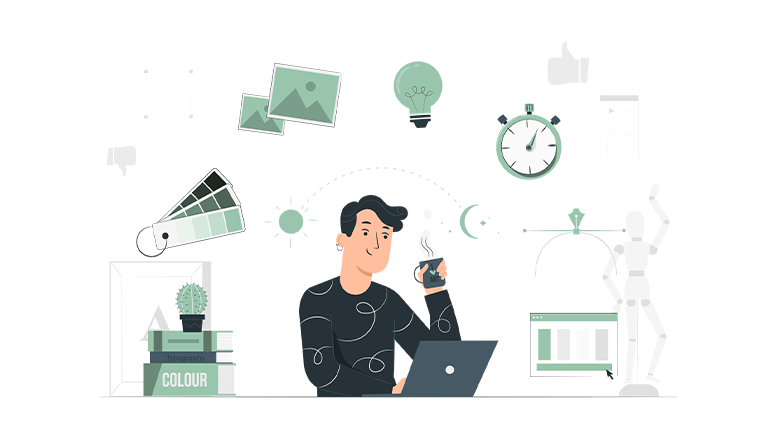
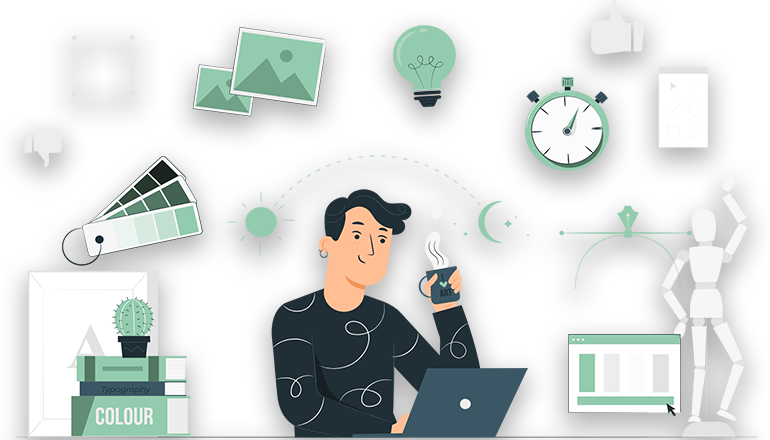
change service main  illustration and see our work instate of need help

diff --git a/functional-resume.html b/functional-resume.html
@@ -200,12 +200,13 @@
 						<!-- Help Widget -->
                         <div class="help-widget">
 							<div class="widget-content">
-								<h4>Need Help ?</h4>
-								<div class="text">Please feel free to contact us. We will get back to you with 1-2 business days. Or just call us now</div>
-								<ul class="help-list">
-									<li><a href="tel:+0-000-0000-000"><span class="icon fa fa-phone"></span>+0 000 0000 000</a></li>
-									<li><a href="mailto:Merix@example.com"><span class="icon fa fa-envelope-o"></span>Merix@example.com</a></li>
-								</ul>
+							<h4>Want to see more ?</h4>
+							<a class="see-work-wrap" href="projects.html">
+								<div class="see-work">
+                                    <div class="see-arrow"><i class="fa fa-arrow-right"></i></div>
+									<div class="see-work-link">See our Work</div>
+								</div>
+							</a>
 							</div>
 						</div>
 						

diff --git a/graphics-design.html b/graphics-design.html
@@ -200,12 +200,13 @@
 						<!-- Help Widget -->
                         <div class="help-widget">
 							<div class="widget-content">
-								<h4>Need Help ?</h4>
-								<div class="text">Please feel free to contact us. We will get back to you with 1-2 business days. Or just call us now</div>
-								<ul class="help-list">
-									<li><a href="tel:+0-000-0000-000"><span class="icon fa fa-phone"></span>+0 000 0000 000</a></li>
-									<li><a href="mailto:Merix@example.com"><span class="icon fa fa-envelope-o"></span>Merix@example.com</a></li>
-								</ul>
+							<h4>Want to see more ?</h4>
+							<a class="see-work-wrap" href="projects.html">
+								<div class="see-work">
+                                    <div class="see-arrow"><i class="fa fa-arrow-right"></i></div>
+									<div class="see-work-link">See our Work</div>
+								</div>
+							</a>
 							</div>
 						</div>
 						
